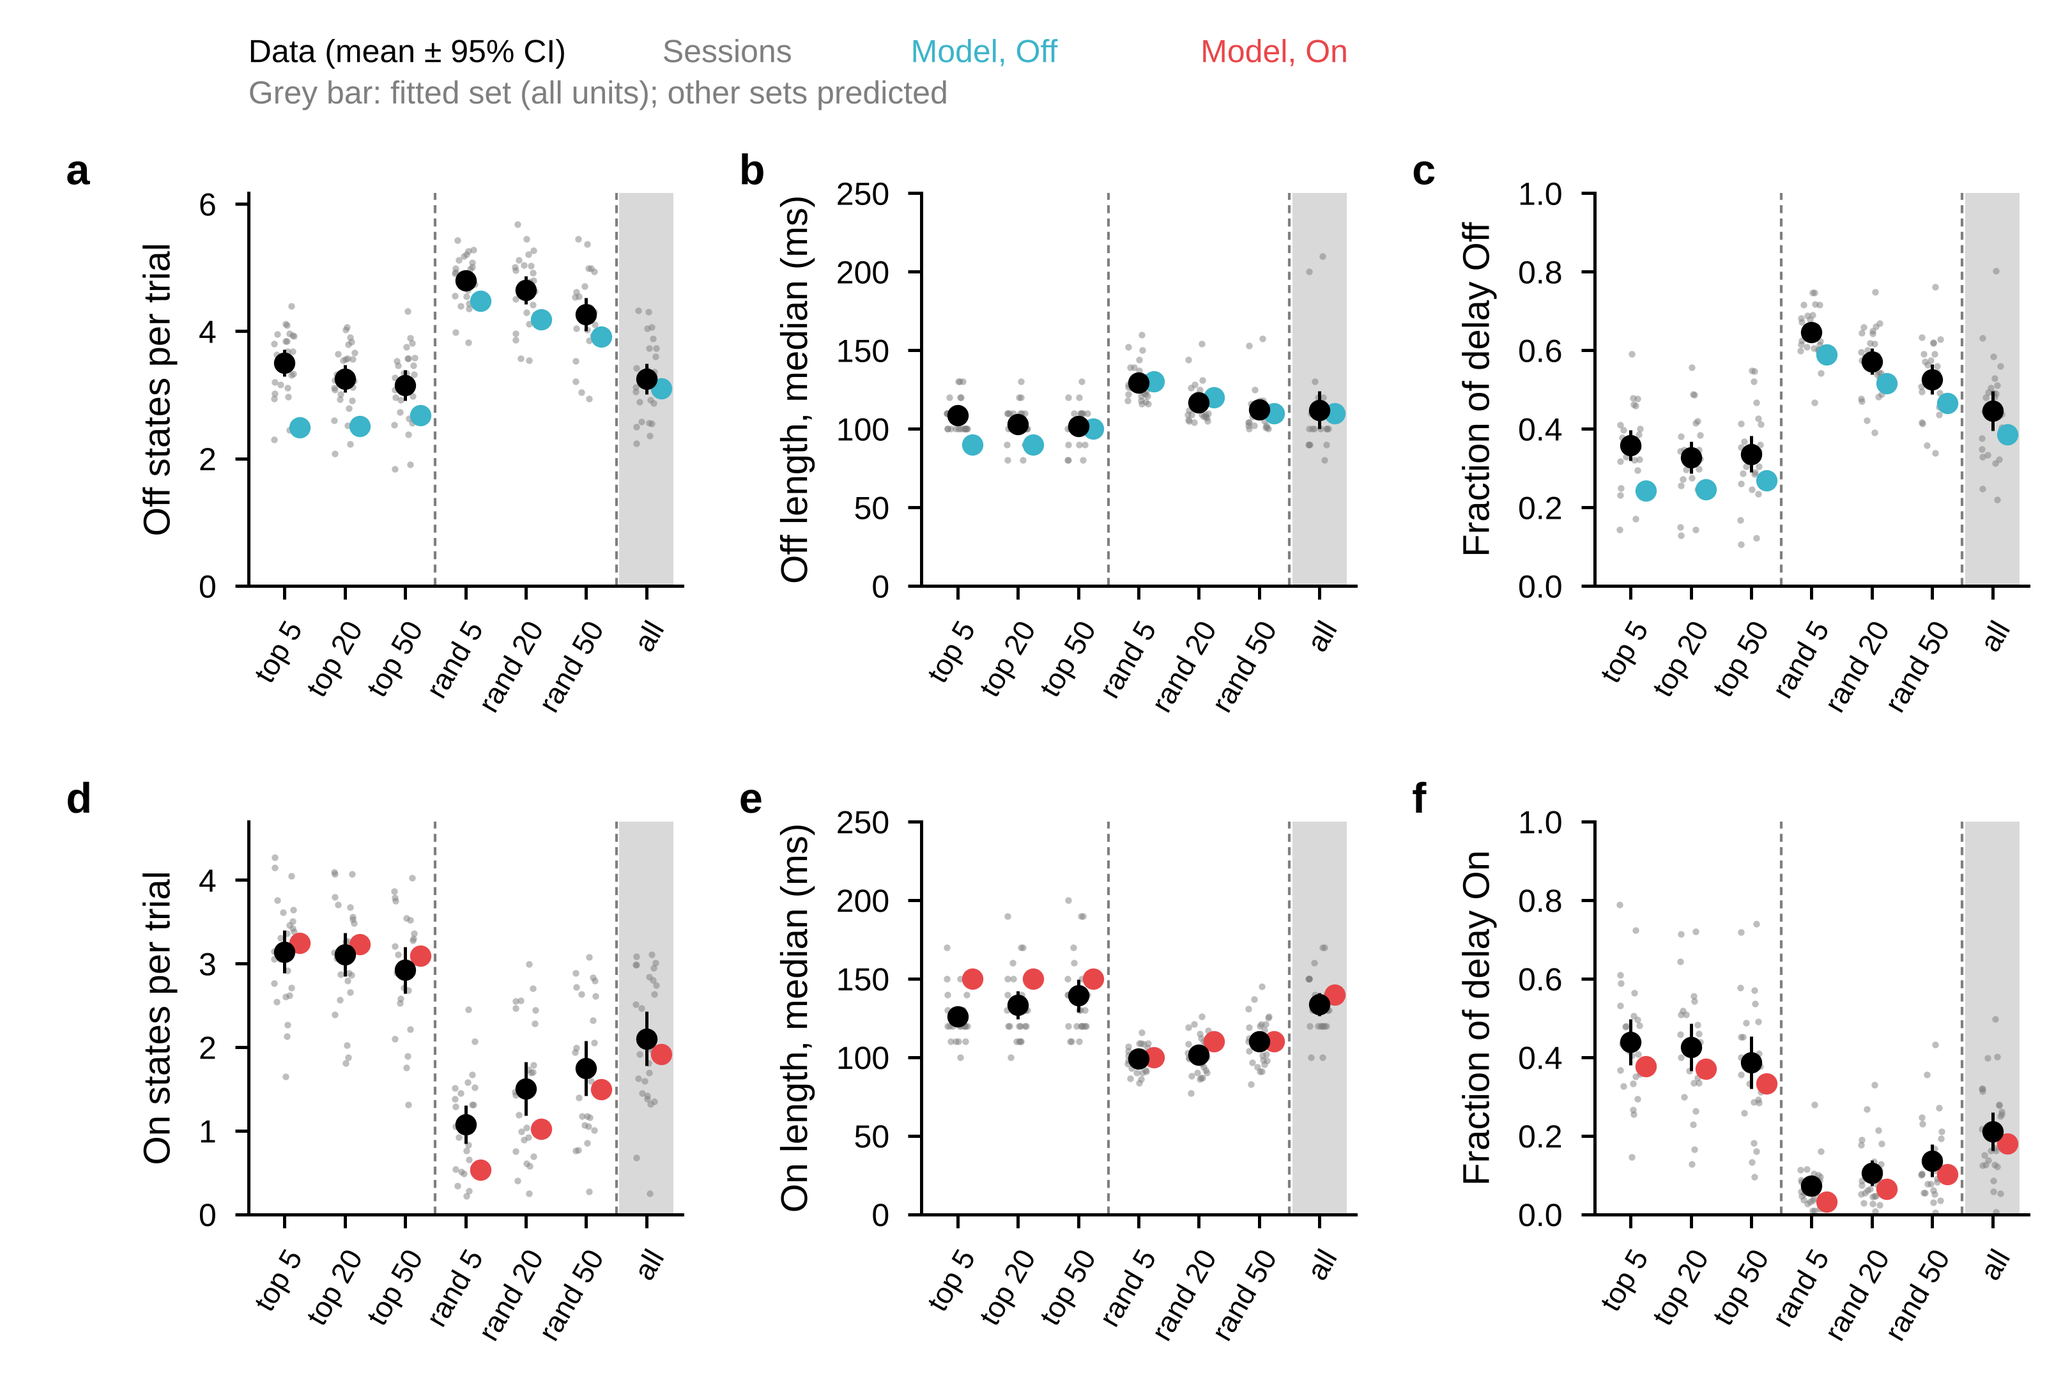
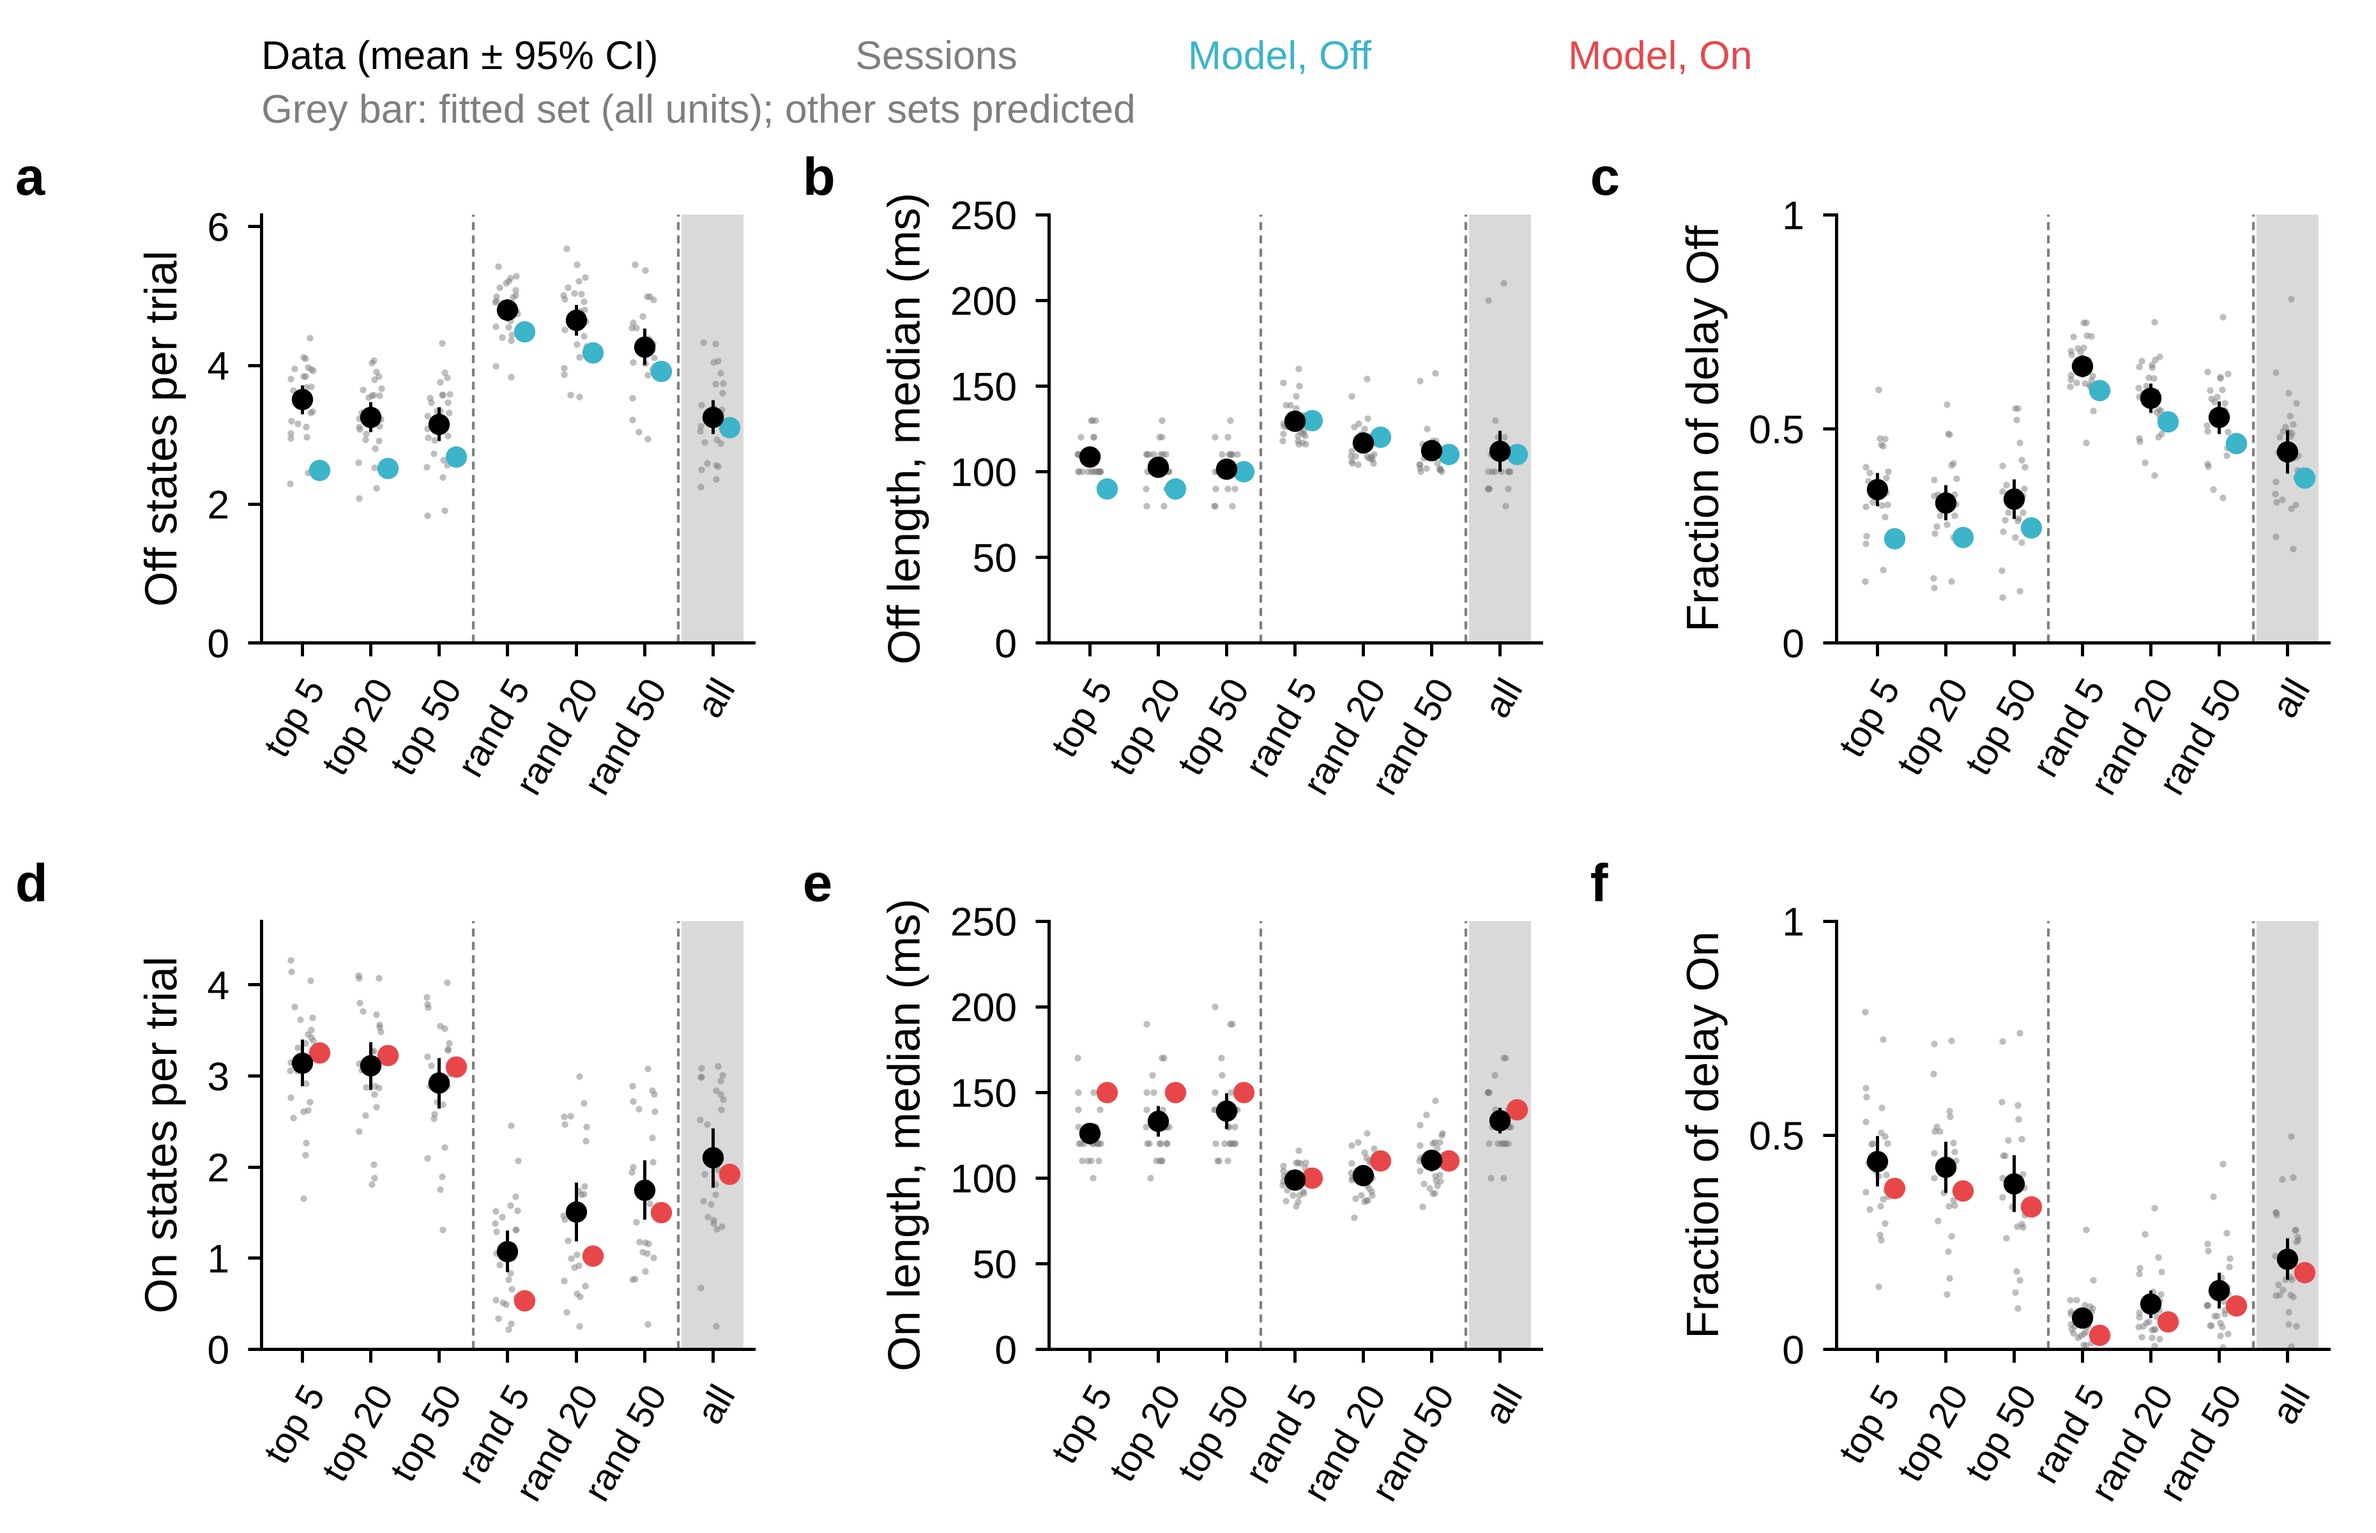
Figures: larger text (8.5 pt labels, 7.5 pt ticks, 10 pt panel letters)
Claude-Session: https://claude.ai/code/session_01DWA8oLxpZgubPZ4A6kb3Lh

diff --git a/paper_model/make_figures.py b/paper_model/make_figures.py
@@ -27,17 +27,17 @@ CUE = 75                       # example trial only: longer cue for display (fit
 # lowercase bold panel letters, sentence-case labels, text legends, grey epoch bars
 C_ON, C_OFF, INK, GREY, LIGHT, C_UN = '#e8474a', '#3cb4c9', '#000000', '#7f7f7f', '#d9d9d9', '#8c8c8c'
 plt.rcParams.update({'font.family': 'sans-serif', 'font.sans-serif': ['Arial', 'Helvetica', 'Liberation Sans'],
-                     'font.size': 7, 'axes.labelsize': 7, 'xtick.labelsize': 6, 'ytick.labelsize': 6,
+                     'font.size': 8.5, 'axes.labelsize': 8.5, 'xtick.labelsize': 7.5, 'ytick.labelsize': 7.5,
                      'axes.linewidth': 0.6, 'xtick.major.width': 0.6, 'ytick.major.width': 0.6,
                      'xtick.major.size': 2.5, 'ytick.major.size': 2.5, 'xtick.direction': 'out', 'ytick.direction': 'out',
                      'axes.spines.top': False, 'axes.spines.right': False, 'axes.edgecolor': INK,
-                     'axes.titlesize': 7, 'axes.titleweight': 'normal', 'lines.linewidth': 0.9,
-                     'legend.frameon': False, 'legend.fontsize': 6, 'mathtext.fontset': 'custom',
+                     'axes.titlesize': 8, 'axes.titleweight': 'normal', 'lines.linewidth': 0.9,
+                     'legend.frameon': False, 'legend.fontsize': 7.5, 'mathtext.fontset': 'custom',
                      'mathtext.rm': 'Liberation Sans', 'mathtext.it': 'Liberation Sans:italic', 'pdf.fonttype': 42})
 
 
 def letter(ax, txt, x=-0.08, y=1.06):
-    ax.text(x, y, txt, transform=ax.transAxes, fontsize=8, weight='bold', va='bottom')
+    ax.text(x, y, txt, transform=ax.transAxes, fontsize=10, weight='bold', va='bottom')
 
 
 def example_trial(gain, n=300, seed=11):
@@ -72,12 +72,12 @@ def figure1(out, path):
     r = out['sets'][FIT_SET]
     tr, t, tz, z, state = example_trial(r['gain'])
     fig = plt.figure(figsize=(7.2, 3.0))     # double column, 183 mm
-    gs = fig.add_gridspec(3, 1, height_ratios=[2.0, 0.35, 2.0], hspace=0.22, left=0.07, right=0.72, top=0.9, bottom=0.14)
-    gh = fig.add_gridspec(2, 1, hspace=0.45, left=0.81, right=0.99, top=0.9, bottom=0.14)
+    gs = fig.add_gridspec(3, 1, height_ratios=[2.0, 0.35, 2.0], hspace=0.22, left=0.08, right=0.71, top=0.9, bottom=0.14)
+    gh = fig.add_gridspec(2, 1, hspace=0.45, left=0.85, right=0.99, top=0.9, bottom=0.14)
     a, b, d = fig.add_subplot(gs[0]), fig.add_subplot(gs[1]), fig.add_subplot(gs[2])
     shade(a, tz, state)
     a.axvspan(0, CUE, color=LIGHT, lw=0)
-    a.text(CUE + 15, 0.04, 'Cue', fontsize=6)
+    a.text(CUE + 15, 0.04, 'Cue', fontsize=7.5)
     a.plot(t, tr['rc'] / M.FIXED['r_max'], color=INK)     # rates relative to the sigmoid ceiling (a.u.)
     a.plot(t, tr['ru'] / M.FIXED['r_max'], color=C_UN)
     a.plot(t, tr['sc'], color=INK, ls=(0, (1, 1.5)))
@@ -86,24 +86,24 @@ def figure1(out, path):
     for dx, label in ((1, 'With attention\nfluctuations'), (-1, 'Without attention\nfluctuations')):
         a.annotate('', xy=(QUIET + dx * 200, 0.94), xytext=(QUIET + dx * 15, 0.94),
                    arrowprops=dict(arrowstyle='-|>', color=INK, lw=0.6, mutation_scale=5))
-        a.text(QUIET + dx * 20, 0.88, label, fontsize=6, va='top', ha='left' if dx > 0 else 'right')
-    for xt, txt, c in ((0.0, 'Cued pool', INK), (0.11, 'Uncued pool', C_UN), (0.8, 'On', C_ON), (0.85, 'Off', C_OFF)):
-        a.text(xt, 1.04, txt, color=c, transform=a.transAxes, fontsize=6, va='bottom')
+        a.text(QUIET + dx * 20, 0.88, label, fontsize=7.5, va='top', ha='left' if dx > 0 else 'right')
+    for xt, txt, c in ((0.0, 'Cued pool', INK), (0.14, 'Uncued pool', C_UN), (0.8, 'On', C_ON), (0.86, 'Off', C_OFF)):
+        a.text(xt, 1.04, txt, color=c, transform=a.transAxes, fontsize=7.5, va='bottom')
     a.legend(handles=[Line2D([], [], color=INK, label='Rate'), Line2D([], [], color=INK, ls=(0, (1, 1.5)), label='NMDA')],
-             loc='lower left', bbox_to_anchor=(0.24, 0.995), ncol=2, handlelength=1.6, columnspacing=1.2, borderaxespad=0)
+             loc='lower left', bbox_to_anchor=(0.32, 0.995), ncol=2, handlelength=1.6, columnspacing=1.2, borderaxespad=0)
     letter(a, 'a')
     b.plot(t, tr['m'], color=INK, lw=0.7)     # common input, minimal
     b.set_ylim(0, 1.1); b.set_yticks([]); b.spines['left'].set_visible(False); b.spines['bottom'].set_visible(False)
     b.tick_params(bottom=False)
-    b.text(-0.01, 0.5, 'Attention\nsignal', transform=b.transAxes, ha='right', va='center', fontsize=6)
+    b.text(-0.01, 0.5, 'Attention\nsignal', transform=b.transAxes, ha='right', va='center', fontsize=7.5)
     shade(d, tz, state)
     d.plot(tz, z, color=INK)
     for y, c, txt in ((0, GREY, ''), (1.96, C_ON, 'P < 0.05'), (0.84, C_OFF, 'P > 0.20')):
         d.axhline(y, color=c, ls=(0, (3, 2)), lw=0.6)
-        d.text(1.005, y, txt, transform=d.get_yaxis_transform(), color=c, fontsize=6, va='center')
+        d.text(1.005, y, txt, transform=d.get_yaxis_transform(), color=c, fontsize=7.5, va='center')
     d.set_ylim(z.min() - 0.3, 6); d.set_yticks([0, 3, 6], ['0', '', '6'])
     d.set_ylabel('Decoding z')
-    d.set_title(r'$z(t) = c\,[r_\mathrm{cued}(t) - r_\mathrm{uncued}(t)] + \eta(t)$', fontsize=6, loc='left', pad=2)
+    d.set_title(r'$z(t) = c\,[r_\mathrm{cued}(t) - r_\mathrm{uncued}(t)] + \eta(t)$', fontsize=7.5, loc='left', pad=2)
     d.set_xlabel('Time from cue onset (ms)')
     for ax in (a, b, d):
         ax.axvline(QUIET, color=GREY, ls=(0, (3, 2)), lw=0.6)
@@ -117,11 +117,11 @@ def figure1(out, path):
         h.bar(edges[:-1], hm[:-1] / hm.sum(), width=20, align='edge', color=c, edgecolor='white', lw=0.3)
         h.set_xlim(0, 620); h.set_xticks([0, 200, 400, 600])
         h.set_ylim(0, 0.25); h.set_yticks([0, 0.125, 0.25], ['0', '', '0.25'])
-        h.set_ylabel('Fraction of states', labelpad=-10)   # beside the unlabelled middle tick
-        h.text(0.97, 0.9, f'{name.capitalize()} states', transform=h.transAxes, ha='right', va='top', color=c, fontsize=6)
+        h.set_ylabel('Fraction of states', labelpad=1)
+        h.text(0.97, 0.9, f'{name.capitalize()} states', transform=h.transAxes, ha='right', va='top', color=c, fontsize=7.5)
         if j == 0:
             h.tick_params(labelbottom=False)
-            letter(h, 'b', x=-0.32, y=1.0)
+            letter(h, 'b', x=-0.55, y=1.0)
         else:
             h.set_xlabel('State length (ms)')
     fig.savefig(path, dpi=600)
@@ -136,7 +136,7 @@ def figure2(out, ses, path):
               ('on_per_trial', 'n_on', 'On states per trial', C_ON, None),
               ('on_median_ms', 'on_median', 'On length, median (ms)', C_ON, 250),
               ('frac_on', 'frac_on', 'Fraction of delay On', C_ON, 1))
-    fig, axs = plt.subplots(2, 3, figsize=(5.4, 3.6), gridspec_kw=dict(hspace=0.6, wspace=0.55, left=0.12, right=0.98,
+    fig, axs = plt.subplots(2, 3, figsize=(6.2, 4.0), gridspec_kw=dict(hspace=0.65, wspace=0.6, left=0.11, right=0.98,
                                                                        top=0.86, bottom=0.12))
     j = list(R.SETS).index(FIT_SET)
     for k, (a, (dk, mk, name, col, top)) in enumerate(zip(axs.ravel(), panels)):
@@ -150,14 +150,16 @@ def figure2(out, ses, path):
         a.plot(x + 0.25, [out['sets'][lab][mk] for lab in R.SETS], 'o', ms=3, color=col, zorder=2)
         a.axvline(2.5, color=GREY, ls=(0, (3, 2)), lw=0.5); a.axvline(5.5, color=GREY, ls=(0, (3, 2)), lw=0.5)
         a.set_xlim(-0.6, len(R.SETS) - 0.4)
-        a.set_xticks(x); a.set_xticklabels(R.SETS, rotation=60, ha='right', rotation_mode='anchor', fontsize=5.5)
+        a.set_xticks(x); a.set_xticklabels(R.SETS, rotation=60, ha='right', rotation_mode='anchor', fontsize=7)
         a.set_ylim(0, top or a.get_ylim()[1] * 1.05)
+        if top == 1:
+            a.set_yticks([0, 0.5, 1], ['0', '0.5', '1'])
         a.set_ylabel(name)
-        letter(a, 'abcdef'[k], x=-0.42, y=1.0)
+        letter(a, 'abcdef'[k], x=-0.5, y=1.02)
     for n, (txt, c) in enumerate((('Data (mean ± 95% CI)', INK), ('Sessions', GREY), ('Model, Off', C_OFF),
                                   ('Model, On', C_ON))):
-        fig.text(0.12 + [0, 0.2, 0.32, 0.46][n], 0.955, txt, color=c, fontsize=6)
-    fig.text(0.12, 0.925, 'Grey bar: fitted set (all units); other sets predicted', color=GREY, fontsize=6)
+        fig.text(0.11 + [0, 0.25, 0.39, 0.55][n], 0.955, txt, color=c, fontsize=7.5)
+    fig.text(0.11, 0.92, 'Grey bar: fitted set (all units); other sets predicted', color=GREY, fontsize=7.5)
     fig.savefig(path, dpi=600)
 
 
